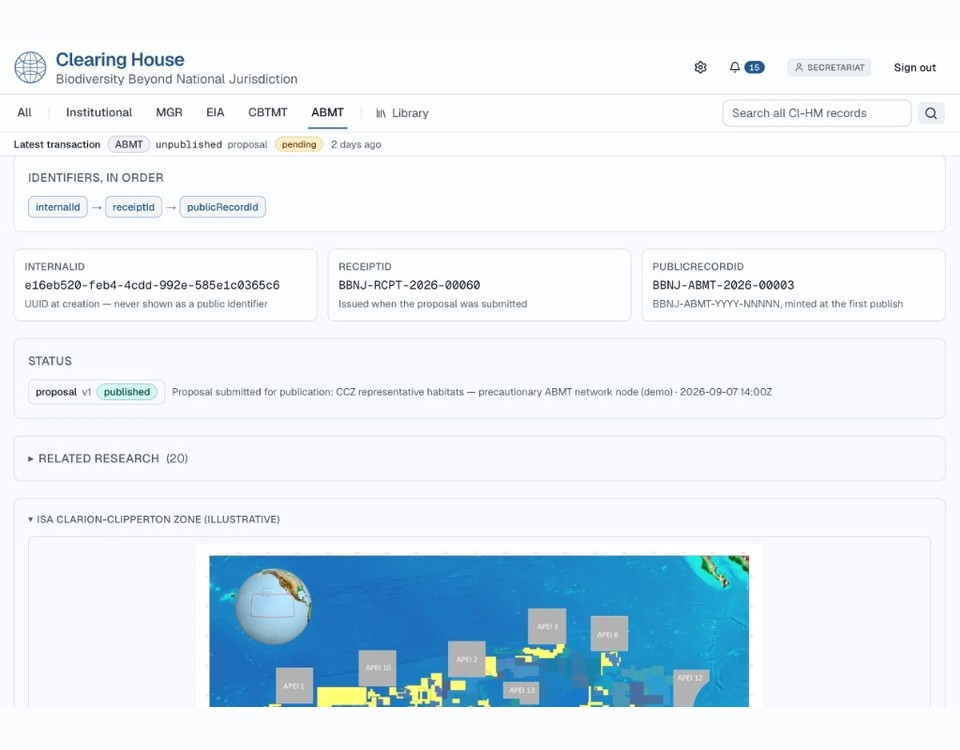
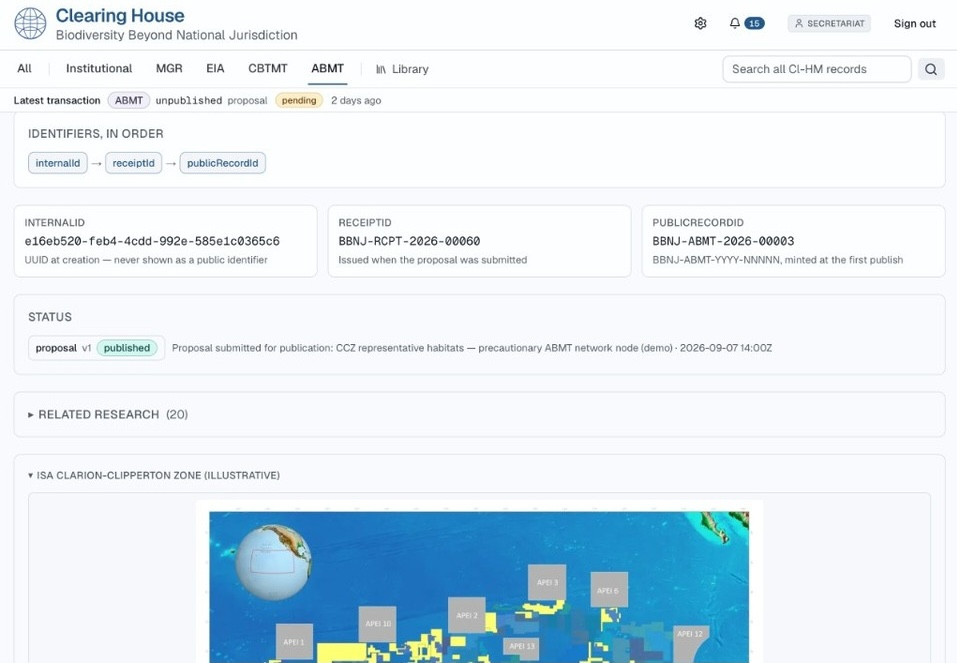
Update README image attributes for responsive design and refresh screenshots.
Adjusted image styles for better responsiveness and updated several screenshots to enhance visual consistency in the README. This includes ensuring all images maintain a uniform display size and aspect ratio.

diff --git a/README.md b/README.md
@@ -11,11 +11,11 @@ Built for **Party and Secretariat staff, reviewers, and anyone comparing a trans
 Repository: [github.com/glen-w/BBNJ-CHM-proto](https://github.com/glen-w/BBNJ-CHM-proto)
 
 <p align="center">
-  <img src="docs/screenshots/readme-home-public.jpg" alt="Clearing House home — public welcome, get started, and workflow counts" width="640" style="display:block;margin:0 auto 1rem;" />
-  <img src="docs/screenshots/readme-cbtmt-needs-offers.jpg" alt="CBTMT journey — needs and offers side by side" width="640" style="display:block;margin:0 auto 1rem;" />
-  <img src="docs/screenshots/readme-mgr-record-detail.jpg" alt="MGR record — identifiers, stage rail, and Art 12.2 notification content" width="640" style="display:block;margin:0 auto 1rem;" />
-  <img src="docs/screenshots/readme-research-ask.jpg" alt="Library — Ask the corpus (Agreement only) beside the place network, with cited local assist" width="640" style="display:block;margin:0 auto 1rem;" />
-  <img src="docs/screenshots/readme-abmt-assist-overlays.jpg" alt="ABMT CCZ stub — identifiers, status, and illustrative ISA Clarion-Clipperton Zone overlay (collapsible open)" width="640" style="display:block;margin:0 auto;" />
+  <img src="docs/screenshots/readme-home-public.jpg" alt="Clearing House home — public welcome, get started, and workflow counts" width="640" style="display:block;width:640px;max-width:100%;height:auto;margin:0 auto 1rem;" />
+  <img src="docs/screenshots/readme-cbtmt-needs-offers.jpg" alt="CBTMT journey — needs and offers side by side" width="640" style="display:block;width:640px;max-width:100%;height:auto;margin:0 auto 1rem;" />
+  <img src="docs/screenshots/readme-mgr-record-detail.jpg" alt="MGR record — identifiers, stage rail, and Art 12.2 notification content" width="640" style="display:block;width:640px;max-width:100%;height:auto;margin:0 auto 1rem;" />
+  <img src="docs/screenshots/readme-research-ask.jpg" alt="Library — Ask the corpus (Agreement only) beside the place network, with cited local assist" width="640" style="display:block;width:640px;max-width:100%;height:auto;margin:0 auto 1rem;" />
+  <img src="docs/screenshots/readme-abmt-assist-overlays.jpg" alt="ABMT CCZ stub — identifiers, status, and illustrative ISA Clarion-Clipperton Zone overlay (collapsible open)" width="640" style="display:block;width:640px;max-width:100%;height:auto;margin:0 auto;" />
 </p>
 
 ---
